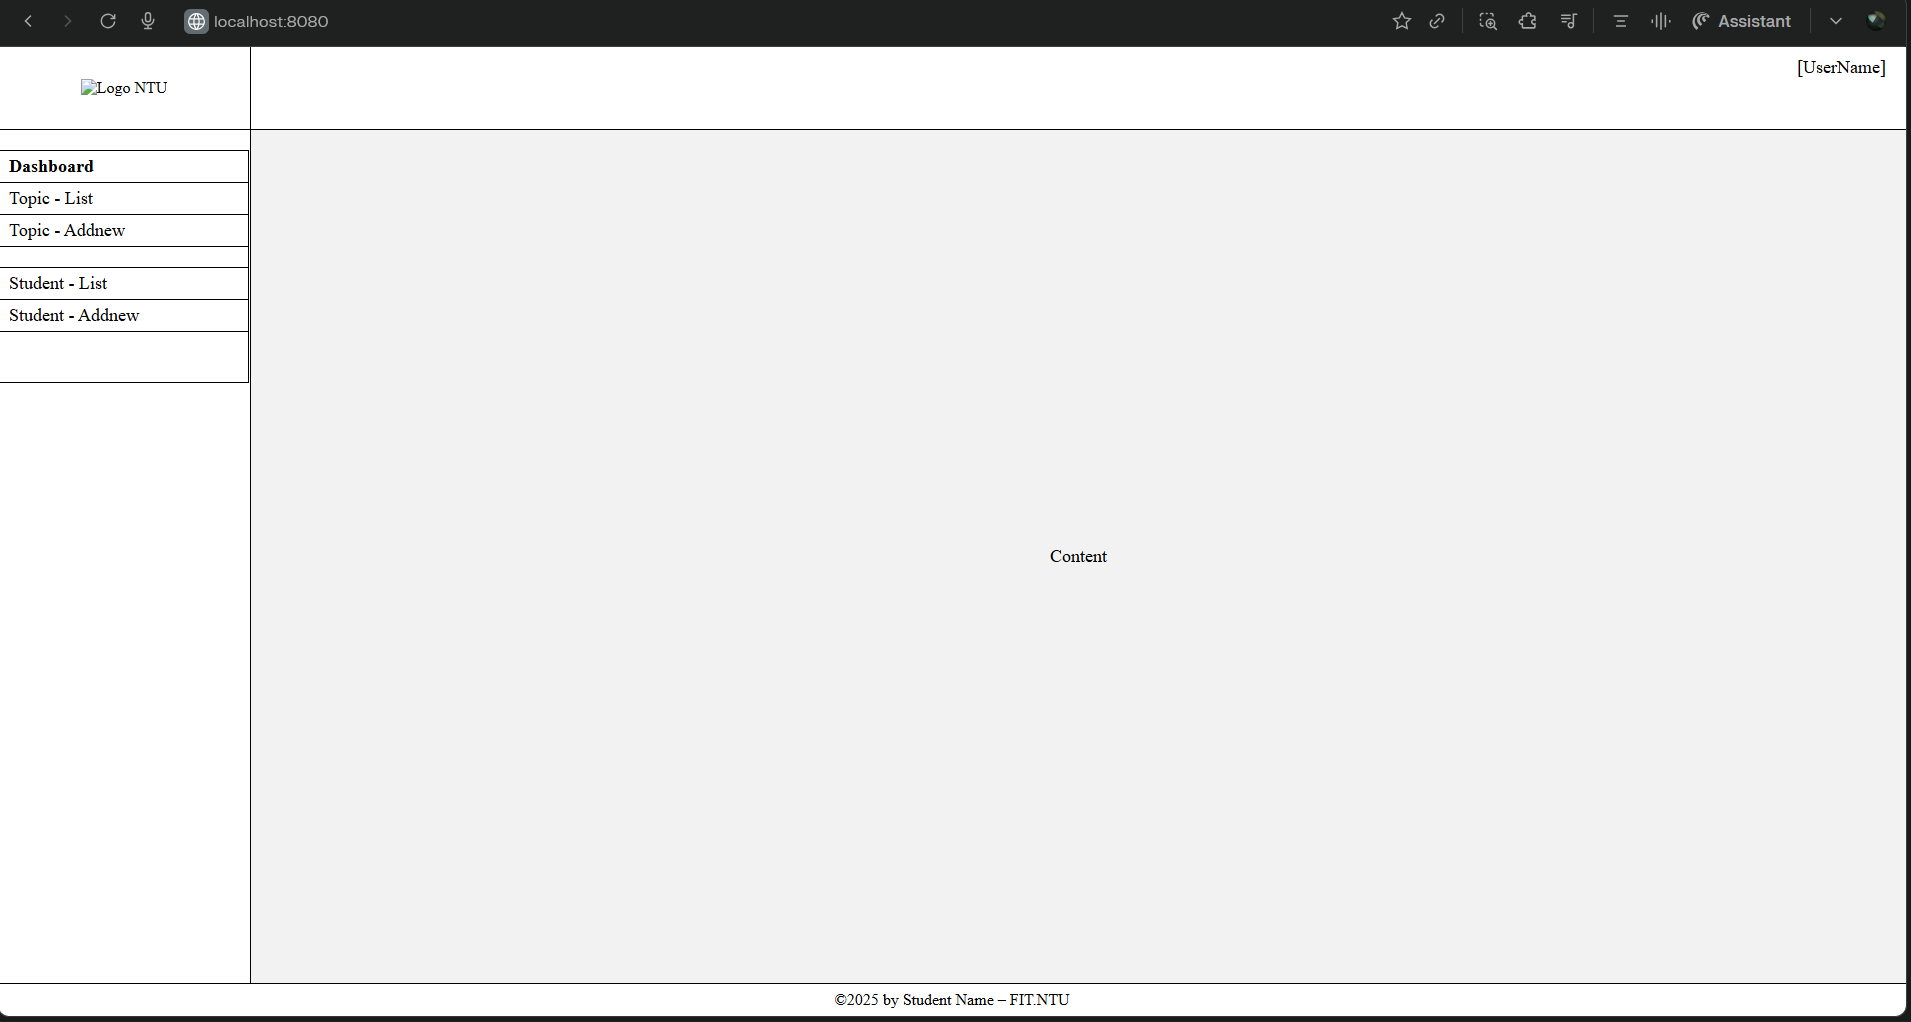
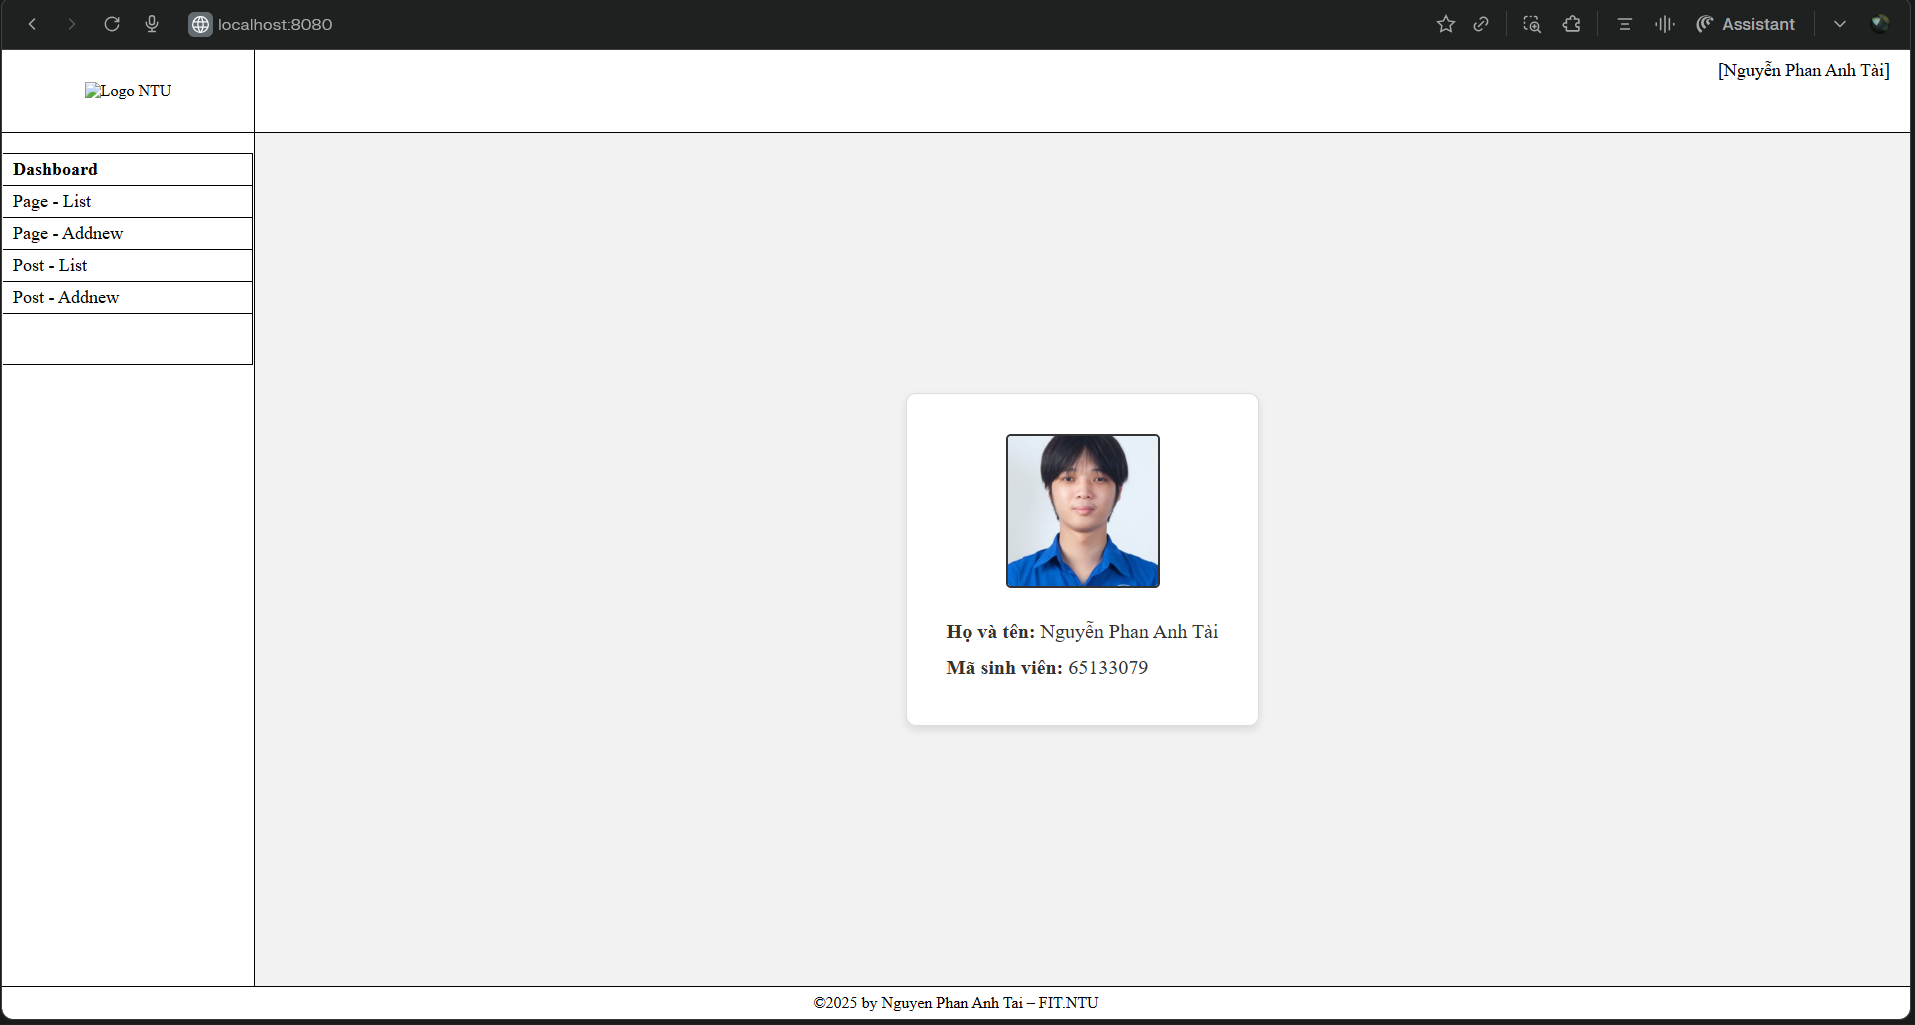
Update Images

diff --git a/NguyenPhanAnhTai_fitCMS/src/main/resources/templates/Dashboard.html b/NguyenPhanAnhTai_fitCMS/src/main/resources/templates/Dashboard.html
@@ -79,6 +79,31 @@
             vertical-align: middle;
             font-size: 16px;
         }
+
+        .profile-card {
+            background-color: white;
+            padding: 40px;
+            border-radius: 10px;
+            box-shadow: 0 4px 8px rgba(0,0,0,0.1);
+            display: inline-block;
+            border: 1px solid #ddd;
+        }
+
+        .profile-img {
+            width: 150px;
+            height: 150px;
+            border-radius: 5px;
+            border: 2px solid #333;
+            object-fit: cover;
+            margin-bottom: 20px;
+        }
+
+        .profile-info {
+            text-align: left;
+            font-size: 20px;
+            line-height: 1.8;
+            color: #333;
+        }
     </style>
 </head>
 <body>
@@ -89,29 +114,35 @@
                 <img src="https://ntu.edu.vn/Portals/0/logo%20ntu.png" alt="Logo NTU">
             </td>
             <td class="header-user">
-                [UserName]
+                [Nguyễn Phan Anh Tài]
             </td>
         </tr>
 
         <tr>
             <td class="sidebar">
                 <div class="menu-item bold">Dashboard</div>
-                <div class="menu-item">Topic - List</div>
-                <div class="menu-item">Topic - Addnew</div>
-                <div class="menu-spacer"></div>
-                <div class="menu-item">Student - List</div>
-                <div class="menu-item">Student - Addnew</div>
+                <div class="menu-item">Page - List</div>
+                <div class="menu-item">Page - Addnew</div>
+                <div class="menu-item">Post - List</div>
+                <div class="menu-item">Post - Addnew</div>
                 <div class="menu-spacer large"></div>
-            </td>
+            </td>	
             
             <td class="content-area">
-                Content
+                <div class="profile-card">
+                    <img th:src="@{/images/Avatar.jpg}" alt="Ảnh đại diện" class="profile-img">
+                    
+                    <div class="profile-info">
+                        <strong>Họ và tên:</strong> Nguyễn Phan Anh Tài<br>
+                        <strong>Mã sinh viên:</strong> 65133079
+                    </div>
+                </div>
             </td>
         </tr>
 
         <tr>
             <td colspan="2" class="footer">
-                ©2025 by Student Name – FIT.NTU
+                ©2025 by Nguyen Phan Anh Tai – FIT.NTU
             </td>
         </tr>
     </table>

diff --git a/NguyenPhanAnhTai_fitCMS/src/main/resources/templates/allpage.html b/NguyenPhanAnhTai_fitCMS/src/main/resources/templates/allpage.html
@@ -1,0 +1,81 @@
+<!DOCTYPE html>
+<html xmlns:th="http://www.thymeleaf.org">
+<head>
+    <meta charset="UTF-8">
+    <title>Danh sách Page</title>
+    <style>
+        body { 
+            font-family: 'Times New Roman', Times, serif; 
+            padding: 20px; 
+        }
+        h2 { 
+            color: #333; 
+        }
+        .btn-add {
+            display: inline-block;
+            margin-bottom: 15px;
+            padding: 8px 15px;
+            background-color: #28a745;
+            color: white;
+            text-decoration: none;
+            border-radius: 4px;
+        }
+        table { 
+            width: 100%; 
+            border-collapse: collapse; 
+            margin-top: 10px; 
+        }
+        th, td { 
+            border: 1px solid black; 
+            padding: 8px 12px; 
+            text-align: left; 
+        }
+        th { 
+            background-color: #f2f2f2; 
+        }
+        .actions a { 
+            text-decoration: none; 
+            color: blue; 
+            margin-right: 10px; 
+        }
+        .actions a:hover { 
+            text-decoration: underline; 
+            color: darkblue;
+        }
+    </style>
+</head>
+<body>
+
+    <h2>Page-List</h2>
+
+    <a th:href="@{/page/new}" class="btn-add">+ Add new Page</a>
+
+    <table>
+        <thead>
+            <tr>
+                <th>id</th>
+                <th>Pagename</th>
+                <th>parentPageId</th>
+                <th>[view] [edit] [delete]</th>
+            </tr>
+        </thead>
+        <tbody>
+            <tr th:each="p : ${lstPages}">
+                <td th:text="${p.id}"></td>
+                <td th:text="${p.pageName}"></td>
+                <td th:text="${p.parentPageId}"></td>
+                
+                <td class="actions">
+                    <a th:href="@{/page/view/{id}(id=${p.id})}">[view]</a>
+                    
+                    <a th:href="@{/page/edit/{id}(id=${p.id})}">[edit]</a>
+                    
+                    <a th:href="@{/page/delete/{id}(id=${p.id})}" 
+                       onclick="return confirm('Bạn có chắc chắn muốn xóa trang này không?');">[delete]</a>
+                </td>
+            </tr>
+        </tbody>
+    </table>
+
+</body>
+</html>

diff --git a/NguyenPhanAnhTai_fitCMS/src/main/java/thiGK/ntu65133079/NguyenPhanAnhTai_fitCMS/controllers/HomeController.java b/NguyenPhanAnhTai_fitCMS/src/main/java/thiGK/ntu65133079/NguyenPhanAnhTai_fitCMS/controllers/HomeController.java
@@ -1,13 +1,34 @@
 package thiGK.ntu65133079.NguyenPhanAnhTai_fitCMS.controllers;
 
+import java.util.ArrayList;
+
 import org.springframework.stereotype.Controller;
+import org.springframework.ui.ModelMap;
 import org.springframework.web.bind.annotation.GetMapping;
+
+import thiGK.ntu65133079.NguyenPhanAnhTai_fitCMS.models.Page;
+import thiGK.ntu65133079.NguyenPhanAnhTai_fitCMS.models.Post;
 
 @Controller
 public class HomeController {
 	
-    @GetMapping("/")
-    public String showDashboard() {
-        return "Dashboard"; 
-    }
+	ArrayList<Page> dsTrang = new ArrayList<Page>();
+	ArrayList<Post> dsBaiViet = new ArrayList<Post>();
+	
+	public HomeController() {
+		dsTrang.add(new Page("P01", "Trang chủ", "home, main", "Nội dung trang chủ", "none"));
+		dsTrang.add(new Page("P02", "Giới thiệu", "about, info", "Nội dung giới thiệu", "P01"));
+		dsTrang.add(new Page("P03", "Liên hệ", "contact, phone", "Nội dung liên hệ", "none"));
+	}
+	
+	@GetMapping("/page/all")
+	public String getTatCaTrang(ModelMap m) {
+		m.addAttribute("lstPages", dsTrang);
+		return "allpage";
+	}
+	
+	@GetMapping("/")
+	public String getDashBoard(ModelMap m) {
+		return "Dashboard";
+	}
 }

diff --git a/NguyenPhanAnhTai_fitCMS/src/main/java/thiGK/ntu65133079/NguyenPhanAnhTai_fitCMS/models/Page.java b/NguyenPhanAnhTai_fitCMS/src/main/java/thiGK/ntu65133079/NguyenPhanAnhTai_fitCMS/models/Page.java
@@ -1,0 +1,56 @@
+package thiGK.ntu65133079.NguyenPhanAnhTai_fitCMS.models;
+
+public class Page {
+	private String id, pageName, keyword, content, parentPageId;
+	
+	public Page(String id, String pageName, String keyword, String content, String parentPageId)
+	{
+		this.id = id;
+		this.pageName = pageName;
+		this.keyword = keyword;
+		this.content = content;
+		this.parentPageId = parentPageId;
+	}
+
+	public String getId() {
+		return id;
+	}
+
+	public void setId(String id) {
+		this.id = id;
+	}
+
+	public String getPageName() {
+		return pageName;
+	}
+
+	public void setPageName(String pageName) {
+		this.pageName = pageName;
+	}
+
+	public String getKeyword() {
+		return keyword;
+	}
+
+	public void setKeyword(String keyword) {
+		this.keyword = keyword;
+	}
+
+	public String getContent() {
+		return content;
+	}
+
+	public void setContent(String content) {
+		this.content = content;
+	}
+
+	public String getParentPageId() {
+		return parentPageId;
+	}
+
+	public void setParentPageId(String parentPageId) {
+		this.parentPageId = parentPageId;
+	}
+	
+	
+}

diff --git a/NguyenPhanAnhTai_fitCMS/src/main/java/thiGK/ntu65133079/NguyenPhanAnhTai_fitCMS/models/Post.java b/NguyenPhanAnhTai_fitCMS/src/main/java/thiGK/ntu65133079/NguyenPhanAnhTai_fitCMS/models/Post.java
@@ -1,0 +1,45 @@
+package thiGK.ntu65133079.NguyenPhanAnhTai_fitCMS.models;
+
+public class Post {
+	private String id, title, content, categoryId;
+	
+	public Post(String id, String title, String content, String categoryId)
+	{
+		this.id = id;
+		this.title = title;
+		this.content = content;
+		this.categoryId = categoryId;
+	}
+
+	public String getId() {
+		return id;
+	}
+
+	public void setId(String id) {
+		this.id = id;
+	}
+
+	public String getTitle() {
+		return title;
+	}
+
+	public void setTitle(String title) {
+		this.title = title;
+	}
+
+	public String getContent() {
+		return content;
+	}
+
+	public void setContent(String content) {
+		this.content = content;
+	}
+
+	public String getCategoryId() {
+		return categoryId;
+	}
+
+	public void setCategoryId(String categoryId) {
+		this.categoryId = categoryId;
+	}
+}
